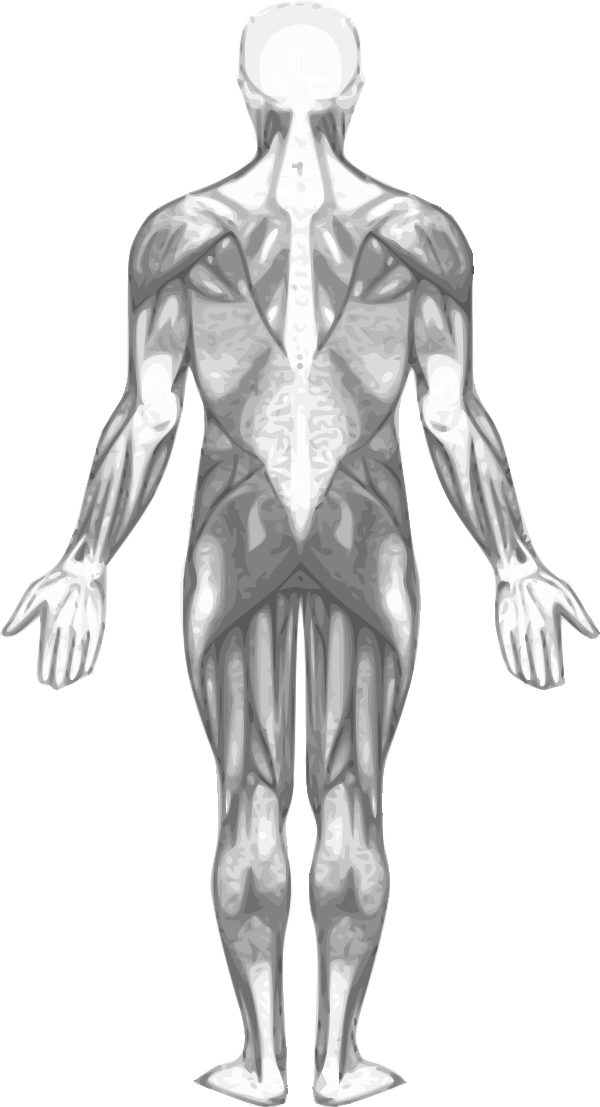
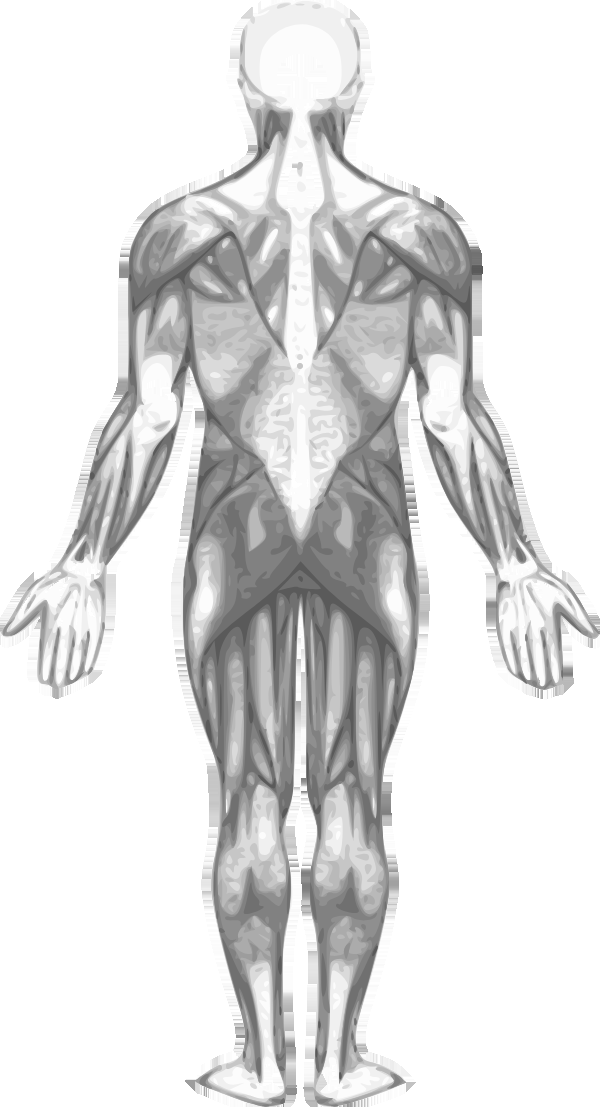
Fill toe/finger crevices that read as broken scribbles on hands and feet
These crevices are topologically "outside" (open air), same as the space
between spread fingers, so the border-reachability rule correctly left
them transparent — but visually they read as defects, not natural
separation, since they're tight pockets hugging real geometry rather than
open background. Extend the fillable candidate set to any transparent
pixel within ~3 native units of a painted pixel, in addition to (not
instead of) the existing border-unreachable interior gaps, so both wide
enclosed holes and tight crevices get caught while true open space next
to the hand/foot silhouette is untouched.

diff --git a/src/components/MuscleAnalytics/muscleBodyShapes.js b/src/components/MuscleAnalytics/muscleBodyShapes.js
@@ -115,22 +115,32 @@ export const BODY_BACK_SVG = lightenGreys(bodyBackRaw, BODY_TONE_OUT_MIN.back);
 // natural linework that reads fine and should stay exactly as the artwork
 // drew it. Only the blobby ones (the sternum/neck patch this replaces, but
 // also dozens more the old two rects missed: collarbone, shoulder blade,
-// palm, knee) read as broken scribbles and needed fixing. So the generator
-// tells them apart by shape, not by hand-picked coordinates:
+// palm, knee, and the toe/finger crevices — see step 2) read as broken
+// scribbles and needed fixing. So the generator tells them apart by shape,
+// not by hand-picked coordinates:
 //   1. Rasterize the (already lightened) SVG to a canvas.
-//   2. Flood-fill "outside" from the canvas border through transparent
-//      pixels, so gaps that genuinely connect to the outside — between
-//      fingers/toes, under the arms — are correctly left transparent.
-//   3. Distance-transform the remaining "interior" transparent pixels
-//      (distance to the nearest non-gap pixel) and connected-component them.
-//      A thin line's max distance stays low regardless of length; a blobby
-//      hole's grows with its width. Threshold: 4px at the 3x working
-//      resolution (~1.3 native units radius) — only components that reach
-//      it anywhere get filled; thin ones are left fully alone rather than
-//      partially chewed into.
-//   4. Fill eligible interior pixels with the color of their nearest real
-//      painted neighbour (multi-source flood fill), so each gap blends into
-//      its own local shading instead of one flat tone for the whole body.
+//   2. Build the candidate set: (a) transparent pixels unreachable from the
+//      canvas border through other transparent pixels ("interior" gaps —
+//      flood-fill from the border first), UNION (b) any transparent pixel
+//      within ~3 native units of a real painted pixel, even if it IS
+//      border-reachable. (b) exists because the space between separated
+//      fingers/toes is topologically "outside" (open air, correctly left
+//      alone) exactly the same way a tight crevice near the base of two
+//      adjacent fingers/toes is (also technically reaches the same open
+//      air, just through a narrow channel) — border-reachability alone
+//      can't tell those two apart, but proximity to real geometry can: the
+//      open part of a finger gap is far from any painted pixel once you're
+//      more than a couple units out, while a tight crevice never is.
+//   3. Distance-transform the candidate set (distance to the nearest
+//      non-candidate pixel) and connected-component it. A thin line's max
+//      distance stays low regardless of length; a blobby hole's — or a
+//      tight crevice's — grows with its width. Threshold: 4px at the 3x
+//      working resolution (~1.3 native units radius) — only components
+//      that reach it anywhere get filled; thin ones (by width, not length)
+//      are left fully alone rather than partially chewed into.
+//   4. Fill eligible pixels with the color of their nearest real painted
+//      neighbour (multi-source flood fill), so each gap blends into its
+//      own local shading instead of one flat tone for the whole body.
 //
 // Regenerate (no CLI tool — needs a real browser canvas to rasterize the
 // SVG): ask Claude to re-run the gap-fill script against the current
